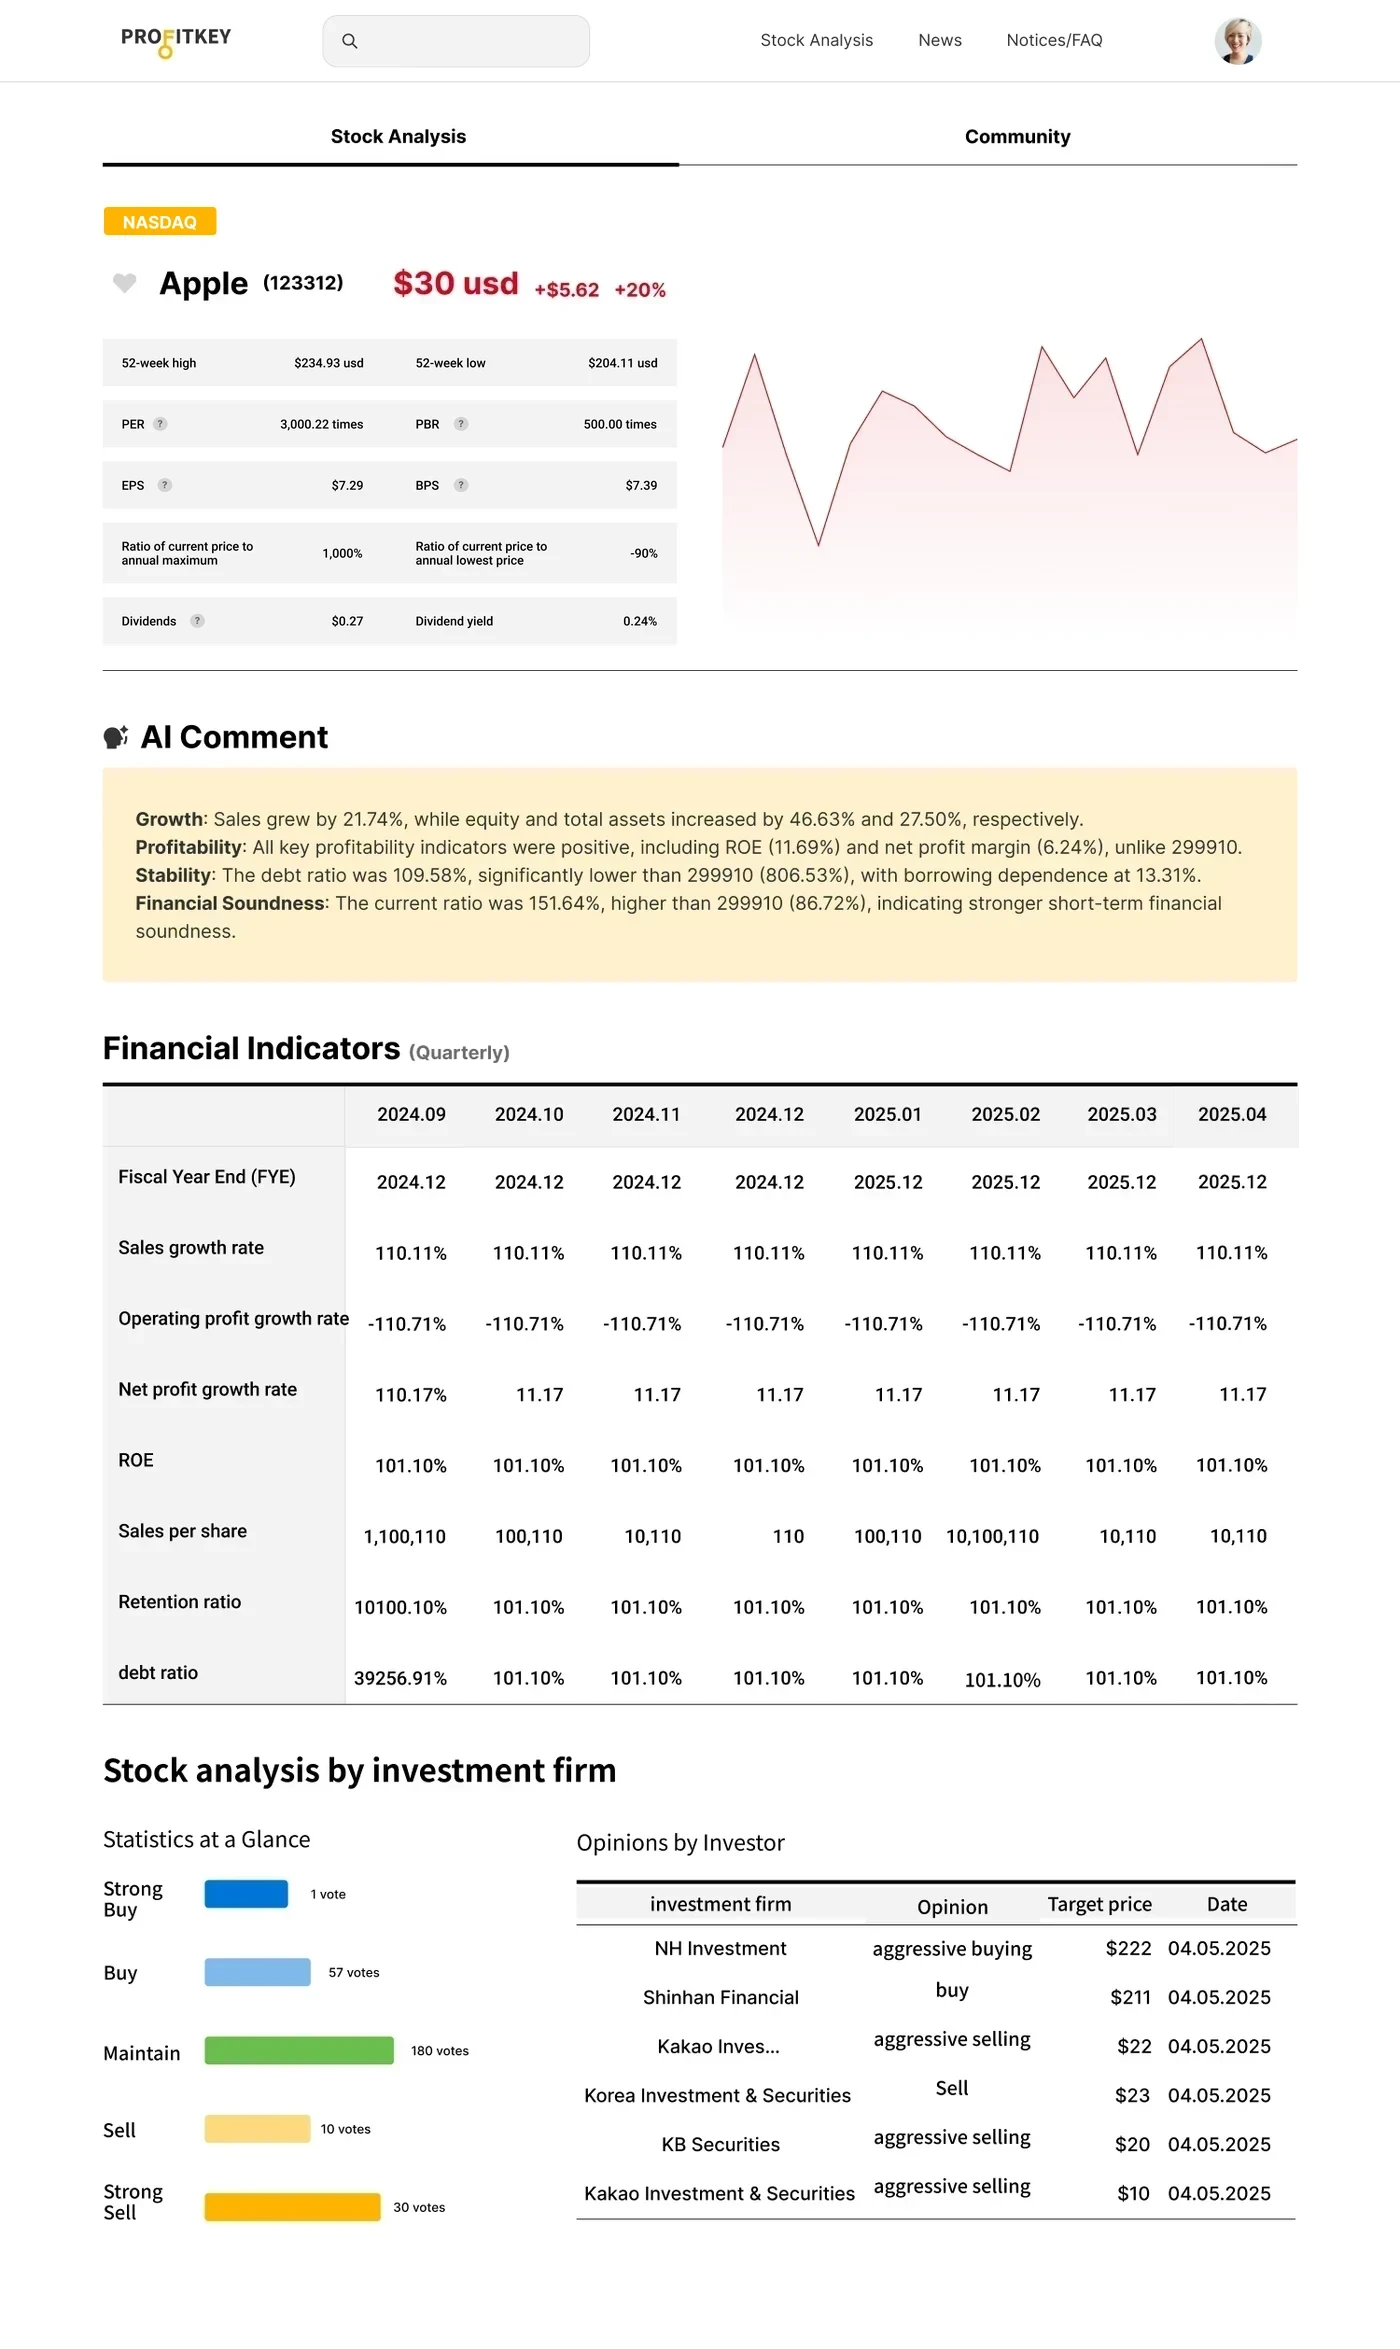
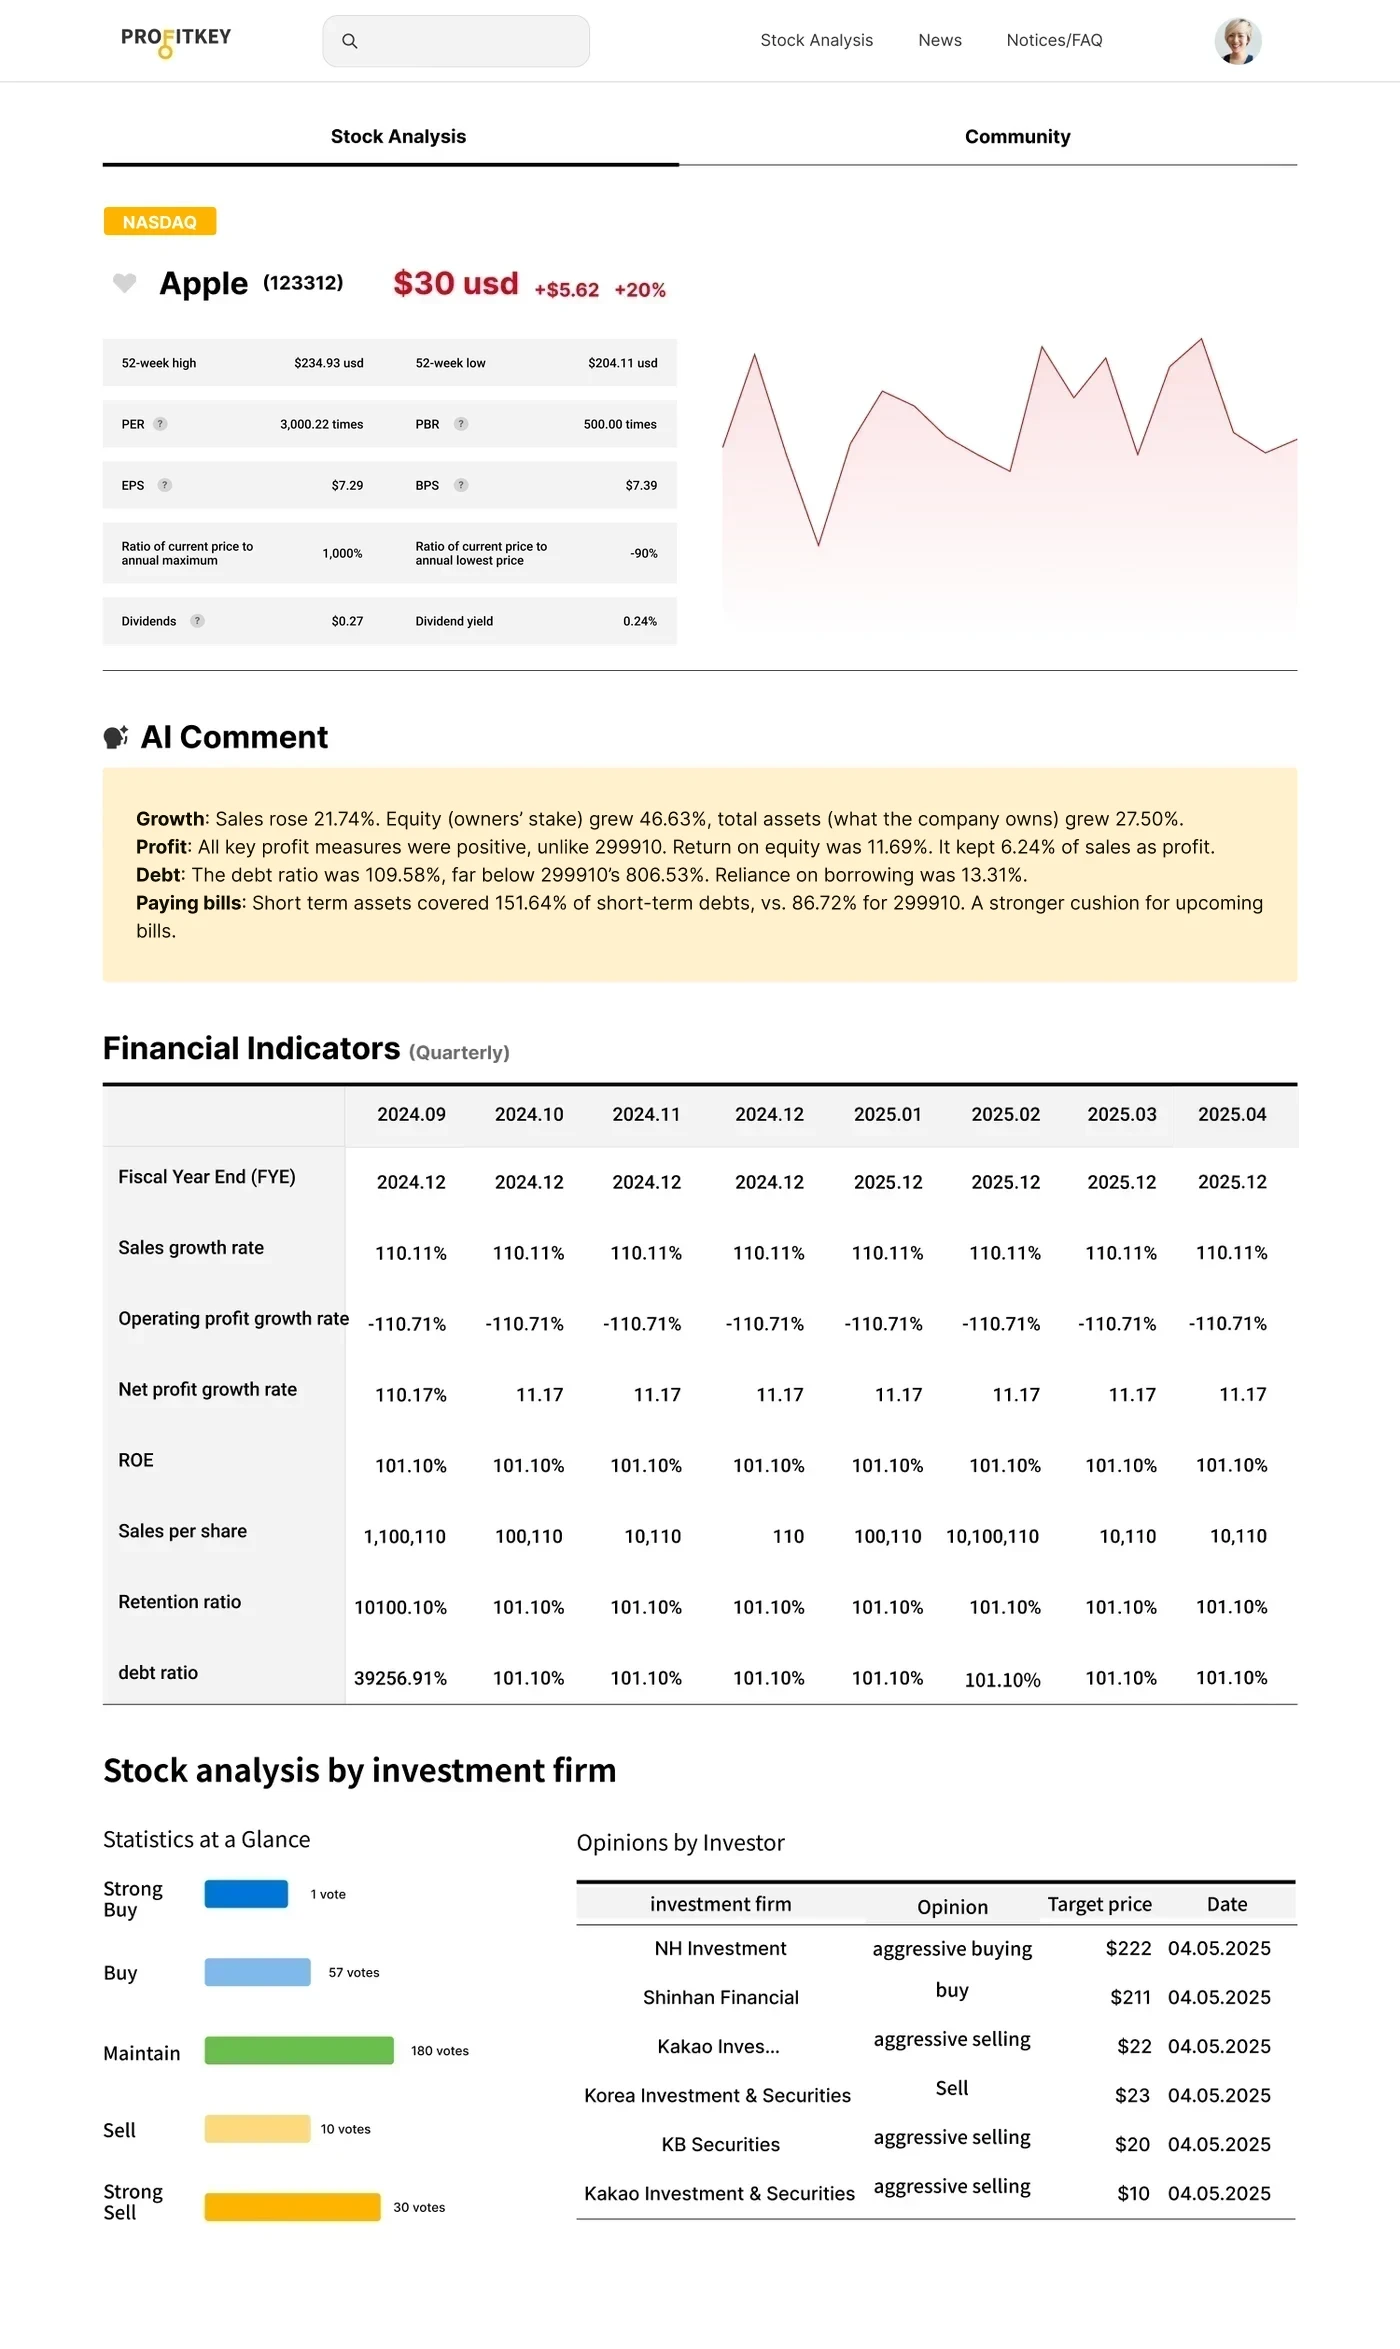
Use plainer AI Comment wording and tidy PROFITKEY review labels

Changed region(s): [[0.0921, 0.3418, 0.86, 0.404]]

diff --git a/src/data/projects.ts b/src/data/projects.ts
@@ -202,7 +202,7 @@ export const projects: Project[] = glueAll<Project[]>([
     platform: 'Desktop web',
     role: 'UX/UI design (sole designer), planning with the team',
     timeline: '2025.01 to 2025.03',
-    team: '6 people: 5 front end/back end engineers and 1 designer',
+    team: '6 people: 5 front/back end engineers and 1 designer',
     tools: ['Figma'],
     // cover: built by scripts/build-profitkey-cover.mjs from the home page design
     thumbnail: img('profitkey-cover', 'PROFITKEY cover: the logo and "Finding the key to success" with a yellow AI Recommended Stocks button, beside the home page on a laptop, a floating AI Recommended Stocks card for Apple (+20%, $28) with its price chart and key figures, a PER glossary row and a PROFITKEY News card.'),
@@ -342,7 +342,7 @@ export const projects: Project[] = glueAll<Project[]>([
             body: [
               'Each stock page summarises growth, profitability, stability and financial soundness in plain sentences, next to the detailed figures.',
             ],
-            figures: [screen('profitkey-crop-ai-comment', 'AI Comment panel summarising growth, profitability, stability and financial soundness in four plain sentences.', 'AI Comment on the stock detail page.', 1284, 354)],
+            figures: [screen('profitkey-crop-ai-comment', 'AI Comment panel explaining growth, profit, debt and paying bills in plain words.', 'AI Comment on the stock detail page.', 1284, 354)],
           },
           {
             kind: 'feature',
@@ -493,7 +493,7 @@ export const projects: Project[] = glueAll<Project[]>([
             kind: 'cards',
             items: [
               {
-                title: 'Designing for trust',
+                title: 'Learning Outcomes',
                 body: 'In user interviews, beginners told me it is **hard to start investing** right away, so I designed every screen from that view to make stocks **easier to approach**, and I grew a lot as a designer through it. In **usability testing with 12 users over 3 days**, people said the **AI comments made stocks easier to understand**, but some also **doubted whether they could trust the AI**. PROFITKEY’s picks and comments come from combined market data, so the next challenge is to **help users trust the AI’s recommendations**.',
               },
             ],
